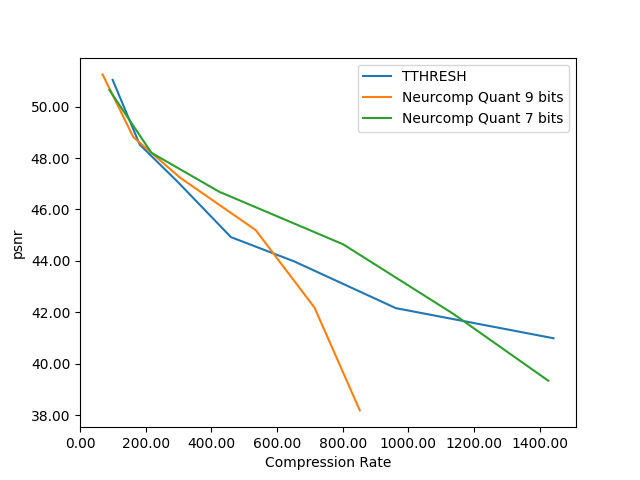
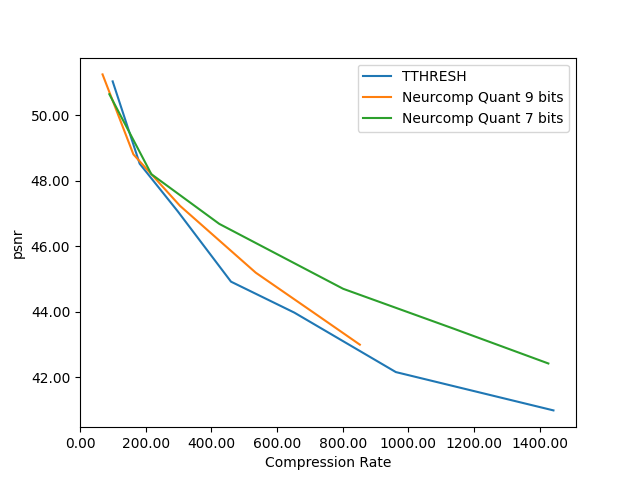
Push new plots

diff --git a/visualization/generatecomprPlot.py b/visualization/generatecomprPlot.py
@@ -133,28 +133,33 @@ def OrigVSSelfImplmentation():
     ax1.plot(mhd_p_OrigCompRate, mhd_p_OrigPSNR, label='Original MHD_P')
     ax1.plot(mhd_p_MyCompRate, mhd_p_MyPSNR, label='My Implementation MHD_P')
     ax1.set_ylabel('psnr')
+    ax1.set_xlabel('Compression Rate')
+    ax1.title.set_text('Without Quantization')
 
     ax2.plot(Test_OrigCompRate, Test_OrigRMSE, label='Original TestVolume')
     ax2.plot(Test_MyCompRate, Test_MyRMSE, label='My Implementation TestVolume')
     ax2.plot(mhd_p_OrigCompRate, mhd_p_OrigRMSE, label='Original MHD_P')
     ax2.plot(mhd_p_MyCompRate, mhd_p_MyRMSE, label='My Implementation MHD_P')
     ax2.set_ylabel('rmse')
+    ax2.set_xlabel('Compression Rate')
 
     ax3.plot(Test_OrigQuantCompRate, Test_OrigQuantPSNR, label='Original TestVolume')
     ax3.plot(Test_MyQuantCompRate, Test_MyQuantPSNR, label='My Implementation TestVolume')
     ax3.plot(mhd_p_OrigQuantCompRate, mhd_p_OrigQuantPSNR, label='Original MHD_P')
     ax3.plot(mhd_p_MyQuantCompRate, mhd_p_MyQuantPSNR, label='My Implementation MHD_P')
     ax3.set_ylabel('psnr')
+    ax3.set_xlabel('Compression Rate')
+    ax3.title.set_text('With Quantization')
 
     ax4.plot(Test_OrigQuantCompRate, Test_OrigQuantRMSE, label='Original TestVolume')
     ax4.plot(Test_MyQuantCompRate, Test_MyQuantRMSE, label='My Implementation TestVolume')
     ax4.plot(mhd_p_OrigQuantCompRate, mhd_p_OrigQuantRMSE, label='Original MHD_P')
     ax4.plot(mhd_p_MyQuantCompRate, mhd_p_MyQuantRMSE, label='My Implementation MHD_P')
     ax4.set_ylabel('rmse')
+    ax4.set_xlabel('Compression Rate')
 
     plt.gca().yaxis.set_major_formatter(FormatStrFormatter('%.2f'))
     plt.gca().xaxis.set_major_formatter(FormatStrFormatter('%.2f'))
-    plt.xlabel('Compression Rate')
     plt.legend()
     
     filepath = 'plots/OrigVSMyImplementation.png'
@@ -185,12 +190,12 @@ def rmseTTHRESHExperiment():
     #tthreshRMSEEjecta = [0.00269608, 0.0036583, 0.00431511, 0.00560041, 0.0104838, 0.0138462, 0.0176128]
     #tthreshCompRateEjeta = [31.7948, 48.6866, 69.6177, 98.5605, 385.059, 744.975, 1415.74]
 
-    NeurcompQuantPSNREjecta9 = [51.2516, 48.8107, 47.2383, 45.1975, 42.1818, 38.1867]
-    NeurcompQuantRMSEEjecta9 = [0.0055, 0.0073, 0.0087, 0.0110, 0.0156, 0.0246]
+    NeurcompQuantPSNREjecta9 = [51.2516, 48.8107, 47.2383, 45.1982, 43.9587, 42.9999]
+    NeurcompQuantRMSEEjecta9 = [0.0055, 0.0073, 0.0087, 0.0110, 0.0127, 0.0142]
     NeurcompQuantCompRateEjecta9 = [68.13400828871195, 162.11593502691107, 304.1637462947687, 534.8768909505364, 714.076016173654, 852.1111280410381]
 
-    NeurcompQuantPSNREjecta7 = [50.6472, 48.20541000366211, 46.6871, 44.6445, 41.9397, 39.33857345581055]
-    NeurcompQuantRMSEEjecta7 = [0.00587, 0.00777, 0.00926, 0.011737, 0.0160, 0.021582484245300293]  # M: last entry makes no sense
+    NeurcompQuantPSNREjecta7 = [50.6472, 48.20541000366211, 46.6871, 44.7053, 43.4916, 42.4256]
+    NeurcompQuantRMSEEjecta7 = [0.00587, 0.00777, 0.00926, 0.0116, 0.0134, 0.0151] 
     NeurcompQuantCompRateEjecta7 = [88.87720143985888, 216.8677701440639, 423.9186385860296, 801.3381415231772, 1137.0144014096438, 1426.4520681885813]
 
     NeurcompQuantPSNRmhd_p9 = [51.56679153442383, 50.18495559692383, 45.4834, 40.7906, 37.31993103027344]
@@ -215,8 +220,8 @@ def rmseTTHRESHExperiment():
     tthreshRMSEmhd_p = [0.003135982353123946, 0.006271169994000251, 0.009925990818509228, 0.016716544001841114, 0.019070782289479934, 0.028947138499412675, 0.035873616272853986, 0.03725399491978439]
     tthreshCompRatemhd_p = [36.145, 79.6552, 141.825, 297.357, 341.542, 681.394, 1096.76, 1143.66]
 
-    param = 'psnr'#'psnr', 'rmse'
-    datset='mhd_p'
+    param = 'rmse'#'psnr', 'rmse'
+    datset='Ejecta'
 
     mlClient = MlflowClient()
     expList = mlClient.search_experiments()
@@ -233,25 +238,25 @@ def rmseTTHRESHExperiment():
         realCompRates.append(float(bestrun.data.params['compression_ratio']))
 
     #plt.plot(realCompRates, allRunsData, label='Neurcomp no Quant')
-    #plt.plot(tthreshCompRateEjeta, tthreshRMSEEjecta, label='TTHRESH')
-    #plt.plot(NeurcompQuantCompRateEjecta9, NeurcompQuantRMSEEjecta9, label='Neurcomp Quant 9 bits')
-    #plt.plot(NeurcompQuantCompRateEjecta7, NeurcompQuantRMSEEjecta7, label='Neurcomp Quant 7 bits')
+    plt.plot(tthreshCompRateEjeta, tthreshRMSEEjecta, label='TTHRESH')
+    plt.plot(NeurcompQuantCompRateEjecta9, NeurcompQuantRMSEEjecta9, label='Neurcomp Quant 9 bits')
+    plt.plot(NeurcompQuantCompRateEjecta7, NeurcompQuantRMSEEjecta7, label='Neurcomp Quant 7 bits')
 
     #plt.plot(tthreshCompRateEjeta, tthreshPSNREjecta, label='TTHRESH')
     #plt.plot(NeurcompQuantCompRateEjecta9, NeurcompQuantPSNREjecta9, label='Neurcomp Quant 9 bits')
     #plt.plot(NeurcompQuantCompRateEjecta7, NeurcompQuantPSNREjecta7, label='Neurcomp Quant 7 bits')
 
-    plt.plot(tthreshCompRatemhd_p, tthreshPSNRmhd_p, label='TTHRESH')
-    plt.plot(NeurcompQuantCompRatemhd_9, NeurcompQuantPSNRmhd_p9, label='Neurcomp Quant 9 bits')
-    plt.plot(NeurcompQuantCompRatemhd_7, NeurcompQuantPSNRmhd_p7, label='Neurcomp Quant 7 bits')
-    plt.plot(NeurcompQuantCompRatemhd_noGrad9, NeurcompQuantPSNRmhd_p_noGrad9, label='Neurcomp Quant 9 bits, no Grad')
+    #plt.plot(tthreshCompRatemhd_p, tthreshPSNRmhd_p, label='TTHRESH')
+    #plt.plot(NeurcompQuantCompRatemhd_9, NeurcompQuantPSNRmhd_p9, label='Neurcomp Quant 9 bits')
+    #plt.plot(NeurcompQuantCompRatemhd_7, NeurcompQuantPSNRmhd_p7, label='Neurcomp Quant 7 bits')
+    #plt.plot(NeurcompQuantCompRatemhd_noGrad9, NeurcompQuantPSNRmhd_p_noGrad9, label='Neurcomp Quant 9 bits, no Grad')
 
     #plt.plot(tthreshCompRatemhd_p, tthreshRMSEmhd_p, label='TTHRESH')
     #plt.plot(NeurcompQuantCompRatemhd_9, NeurcompQuantRMSEmhd_9, label='Neurcomp Quant 9 bits')
     #plt.plot(NeurcompQuantCompRatemhd_7, NeurcompQuantRMSEmhd_7, label='Neurcomp Quant 7 bits')
     #plt.plot(NeurcompQuantCompRatemhd_noGrad9, NeurcompQuantRMSEmhd_noGrad9, label='Neurcomp Quant 9 bits, no Grad')
 
-    #plt.axhline(y=0.1753335443571432, color='y', linestyle='--')
+    #plt.axhline(y=0.14457457125146844, color='y', linestyle='--')
 
     plt.gca().yaxis.set_major_formatter(FormatStrFormatter('%.2f'))
     plt.gca().xaxis.set_major_formatter(FormatStrFormatter('%.2f'))
@@ -259,7 +264,7 @@ def rmseTTHRESHExperiment():
     plt.ylabel(param)
     plt.legend()
     
-    filepath = 'plots/'+datset+'_TTHRESH_'+param+'.png'
+    filepath = 'plots/'+datset+'_TTHRESH_'+param+'NoSTD.png'
     plt.savefig(filepath)
 
 def paramExperiment():
@@ -289,8 +294,8 @@ def paramExperiment():
 
 
 if __name__ == '__main__':
-    #rmseTTHRESHExperiment()
+    rmseTTHRESHExperiment()
     #paramExperiment()
     #QuantBitsExperiment()
     #QuantVsOrigExperiment()
-    OrigVSSelfImplmentation()
+    #OrigVSSelfImplmentation()
